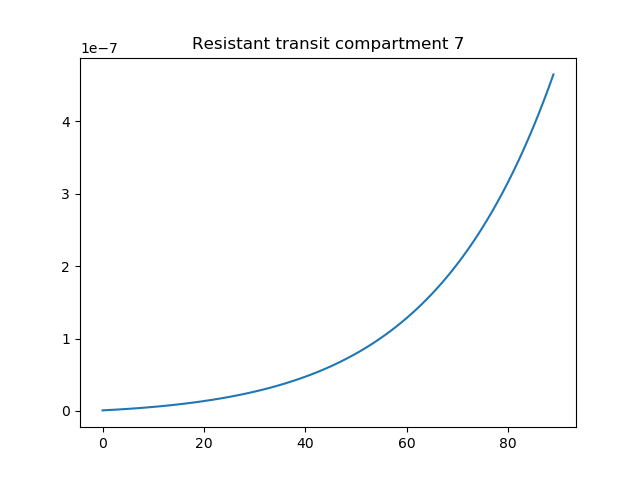
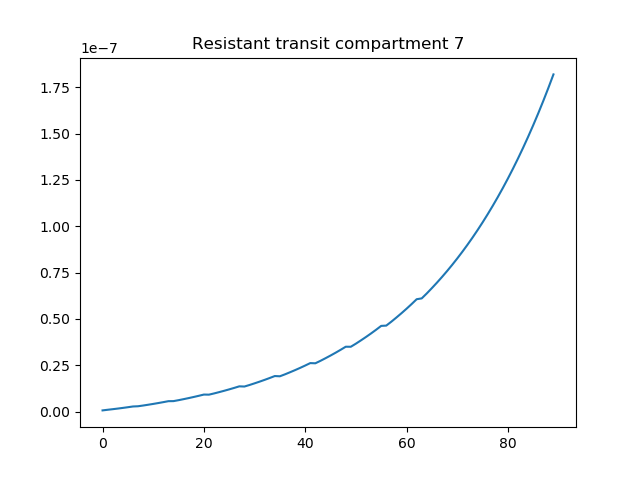
Specified integrator and tolerances. Fixes excessive work problem with Virions. Adding latest graphs.

diff --git a/AlphaSilico/src/insilico.py b/AlphaSilico/src/insilico.py
@@ -59,12 +59,6 @@ class TumorModel:
         """
         Initializes a system of ordinary differential equations to model melanoma tumor growth. Model by Craig & Cassidy.
 
-        TO DO:
-            -
-            -
-            -
-            -
-
         :param immunotherapy: 1D Numpy array of floats. Each entry corresponds to the number of immunotherapy doses at a given day.
         :param virotherapy: 1D Numpy array of floats. Each entry corresponds to the number of virotherapy doses at a given day.
         :param a1: Float. Quiescent to interphase rate. (1/month)
@@ -98,10 +92,10 @@ class TumorModel:
         self.k_cp = k_cp
 
         # Distribution specific parameters
-        self.j = round(self.tau**2 / self.intermitotic_SD**2)
+        self.j = round(self.tau**2 / self.intermitotic_SD**2)  # Number of transit compartments
         self.k_tr = self.j / self.tau  # Transit rate across compartments
         self.dg_hat = self.j / self.tau * (math.exp(self.d3 * self.tau / (self.j + 1)) - 1)  # 14.8948 VS SUGGESTED 0.167 * 30 = 5.01 in S.I. GREATLY AFFECTS SCALE
-        # self.dg_hat = 0.167 * 30
+        # self.dg_hat = 0.167 * 30  # Suggested by S.I.
         self.dg_hat_R = self.dg_hat
 
         # Immune steady state (not used?)
@@ -136,9 +130,15 @@ class TumorModel:
         NR = (self.tau / self.total_time) * self.total_cells * self.nu  # Total number resistant cells in cycle
         self.initial_conditions = [Q, G1, I, V] + A.tolist() + [C, P, N, QR, G1R] + AR.tolist() + [NR]  # Length 28 with N = 9
 
-        self.immune_dose_history = {'t': [],
-                                    'h': [],
-                                    }
+        self.dose_history = {'immunotherapy': {'t': [],
+                                               'h': [],
+                                               },
+                             'virotherapy': {'t': [],
+                                             'h': [],
+                                             }
+                             }
+
+        self.test_counter = 0
 
     def immune_dose(self, t):
 
@@ -149,7 +149,7 @@ class TumorModel:
         :return: Float. Current instantaneous change in immunotherapy.
         """
 
-        time_mask = np.where(t > self.t_immune_admin)  # Mask doses that have not yet been applied
+        time_mask = np.where(t >= self.t_immune_admin)  # Mask doses that have not yet been applied
 
         immunotherapy = self.immunotherapy[time_mask]
         t_admin = self.t_immune_admin[time_mask]
@@ -157,20 +157,24 @@ class TumorModel:
         doses = self.immune_k_abs * self.immune_availability * self.immune_admin * immunotherapy  # Convert doses to available cytokines
         decay = np.exp(-self.immune_k_abs * (t - t_admin))  # Exponential decay term
 
-        if (len(self.immune_dose_history['t']) == 0 and len(self.immune_dose_history['h']) == 0) or self.immune_dose_history['t'][-1] != t:
-            self.immune_dose_history['t'].append(t)
-            self.immune_dose_history['h'].append(np.sum(doses*decay)/self.vol)
+        if (len(self.dose_history['immunotherapy']['t']) == 0 and len(self.dose_history['immunotherapy']['h']) == 0) or self.dose_history['immunotherapy']['t'][-1] != t:
+            self.dose_history['immunotherapy']['t'].append(t)
+            self.dose_history['immunotherapy']['h'].append(np.sum(doses*decay)/self.vol)
 
         return np.sum(doses*decay)/self.vol
 
     def viral_dose(self, t):
-        time_mask = np.where(t > self.t_viral_admin)  # Mask doses that have not yet been applied
+        time_mask = np.where(t >= self.t_viral_admin)  # Mask doses that have not yet been applied
 
         virotherapy = self.virotherapy[time_mask]
         t_admin = self.t_viral_admin[time_mask]
 
         doses = self.viral_k_abs * self.viral_availability * self.viral_admin * virotherapy  # Convert doses to available cytokines
         decay = np.exp(-self.viral_k_abs * (t - t_admin))  # Exponential decay term
+
+        if (len(self.dose_history['virotherapy']['t']) == 0 and len(self.dose_history['virotherapy']['h']) == 0) or self.dose_history['virotherapy']['t'][-1] != t:
+            self.dose_history['virotherapy']['t'].append(t)
+            self.dose_history['virotherapy']['h'].append(np.sum(doses*decay)/self.vol)
 
         return np.sum(doses * decay) / self.vol
 
@@ -187,7 +191,7 @@ class TumorModel:
 
         # Auxiliary function
         infection = 0
-        if V > 1e-10:  # lipschitz continuity?
+        if V > 1e-10:
             infection = V / (self.eta12 + V)
         eta = self.kappa * infection
         phi = self.k_cp * C / (self.C12 + C)  # DIFFERENCE BETWEEN MATLAB (PSI12) CODE AND S.I (PSI12 VS C12).
@@ -203,10 +207,10 @@ class TumorModel:
         dG1_dt = self.a1 * Q - (self.a2 + self.d2 + psi_G + eta) * G1
 
         # Infected cells, y[2]
-        dI_dt = -self.delta * I + eta * (G1 + N)
+        dI_dt = -self.delta * I + eta * (G1 + N + G1R + NR)
 
         # Virions, y[3]
-        dV_dt = self.alpha * self.delta * I - self.omega * V - eta * (G1 + N)  # + self.viral_dose(t)
+        dV_dt = self.alpha * self.delta * I - self.omega * V - eta * (G1 + N + G1R + NR) + self.viral_dose(t)
 
         # Transit compartments, y[4], ..., y[j+3]
         dA1_dt = self.a2 * G1 - self.k_tr * A[1] - (self.dg_hat + eta + psi_G) * A[1]
@@ -223,7 +227,7 @@ class TumorModel:
         dP_dt = phi - self.gamma_P * P
 
         # Total number of cells in cycle, y[j+6]
-        dN_dt = self.a2 * G1 - (self.dg_hat + eta + psi_G) * N - (self.k_tr / self.a2) * A[-1]  # DOES NOT APPEAR IN REDUCED FORM IN S.I.
+        dN_dt = self.a2 * G1 - (self.dg_hat + eta + psi_G) * N - (self.k_tr / self.a2) * A[-1]
 
         # Resistant quiescent cells, y[j+7]
         dQR_dt = 2 * self.nu * self.k_tr * A[-1] + 2 * self.k_tr * AR[-1] - (self.a1_R + self.d1_R) * QR
@@ -240,7 +244,16 @@ class TumorModel:
             dAR_dt.append(dAiR_dt)
 
         # Total number of resistant cells in cyle, y[2*j+9]
-        dNR_dt = self.a2 * G1R - (self.dg_hat + eta) * NR - (self.k_tr / self.a2) * AR[-1]  # DOES NOT APPEAR IN REDUCED FORM IN S.I.
+        dNR_dt = self.a2 * G1R - (self.dg_hat + eta) * NR - (self.k_tr / self.a2) * AR[-1]
+
+        # Test
+        # self.test_counter += 1
+        # print(self.test_counter)
+        # test_return = [0] * 28
+        # test_return[3] = dV_dt
+        # test_return[13] = dC_dt
+        # test_return[14] = dP_dt
+        # return test_return
 
         return [dQ_dt, dG1_dt, dI_dt, dV_dt] + dA_dt + [dC_dt, dP_dt, dN_dt, dQR_dt, dG1R_dt] + dAR_dt + [dNR_dt]
 
@@ -254,8 +267,8 @@ class TumorModel:
         :return: Simulation history. Includes initial conditions as first entry.
         """
 
-        r = ode(self.evaluate_derivatives).set_integrator('vode', method='bdf', nsteps=nsteps, max_step=1/30/20)
-        # r = ode(self.evaluate_derivatives).set_integrator('lsoda', nsteps=nsteps)  # Small numerical fluctuations
+        # r = ode(self.evaluate_derivatives).set_integrator('vode', method='bdf', atol=1e-8, rtol=1e-8, nsteps=nsteps, max_step=1/30/20)
+        r = ode(self.evaluate_derivatives).set_integrator('lsoda', nsteps=nsteps, atol=1e-8, rtol=1e-8, max_step=1/30/20)  # Small numerical fluctuations
         r.set_initial_value(self.initial_conditions, t_start)  # Set initial conditions
 
         y = np.empty(shape=(0, len(self.initial_conditions)))  # Solution
@@ -263,6 +276,7 @@ class TumorModel:
         while r.successful() and r.t + self.dt < t_end:
             print('Simulating... day ' + str(int(r.t*30)))
             r.integrate(r.t + self.dt)
+            self.t = r.t
             y = np.vstack((y, np.real(r.y)))
 
         history = {'t_start': t_start,

diff --git a/AlphaSilico/src/learner.py b/AlphaSilico/src/learner.py
@@ -1,5 +1,4 @@
 import tensorflow as tf
-from tensorflow import concat
 from tensorflow.keras.layers import Layer, Dense, LeakyReLU
 from tensorflow.keras import Model
 from tensorflow.keras.activations import softmax
@@ -64,6 +63,6 @@ class Learner(Model):
         y = self.vision(y)
         yv = self.value_head(y)
         yp = self.policy_head(y)
-        output = concat([yv, yp], axis=1)
+        output = tf.concat([yv, yp], axis=1)
         return output 
 
